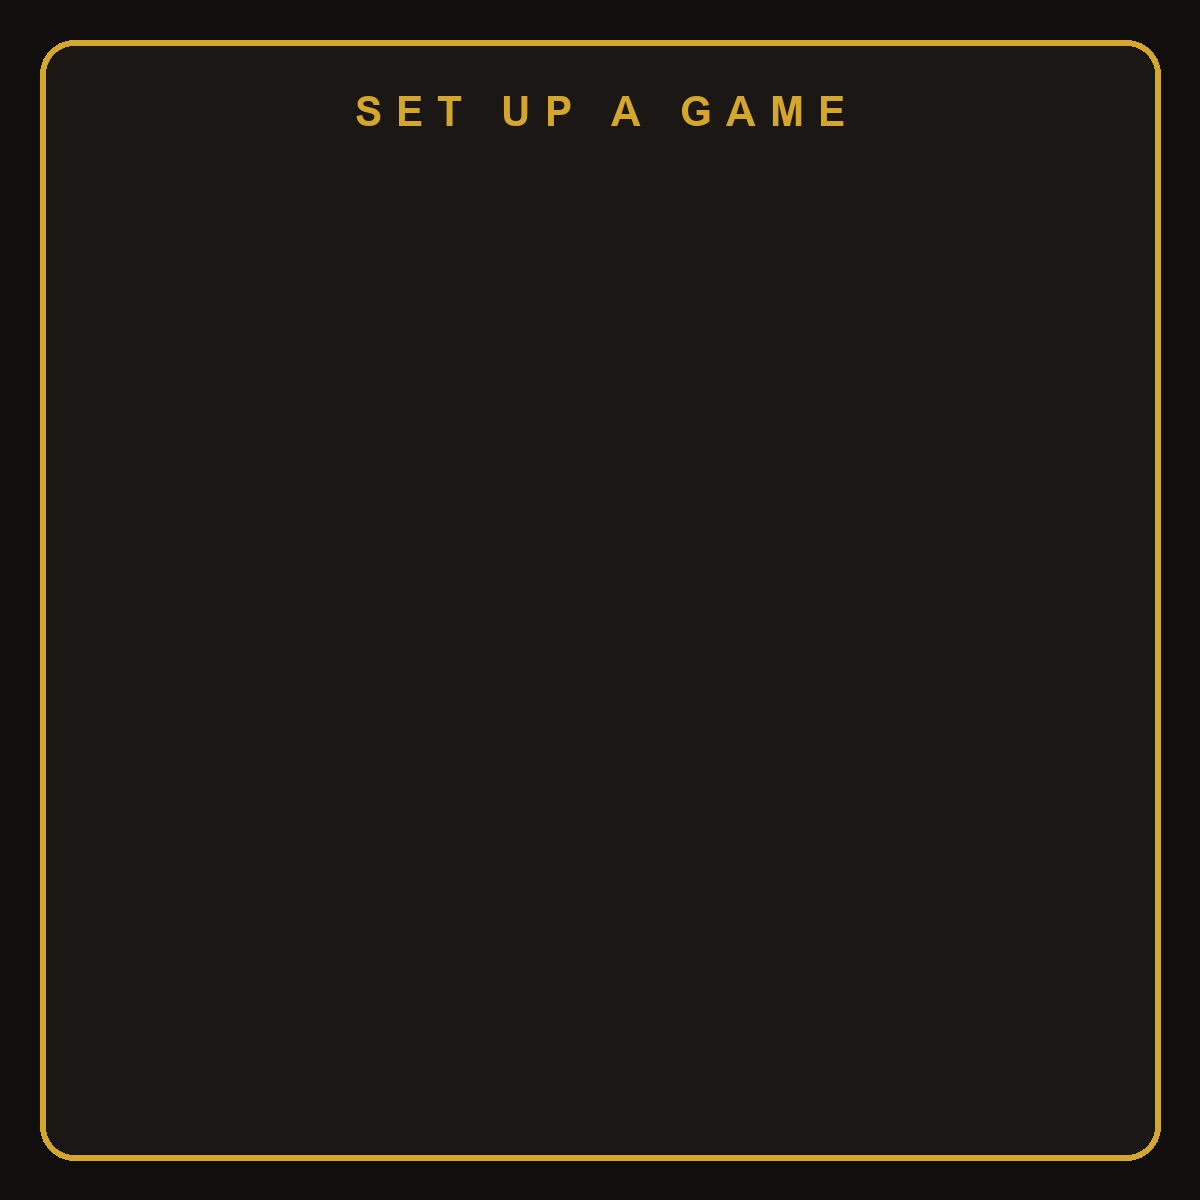
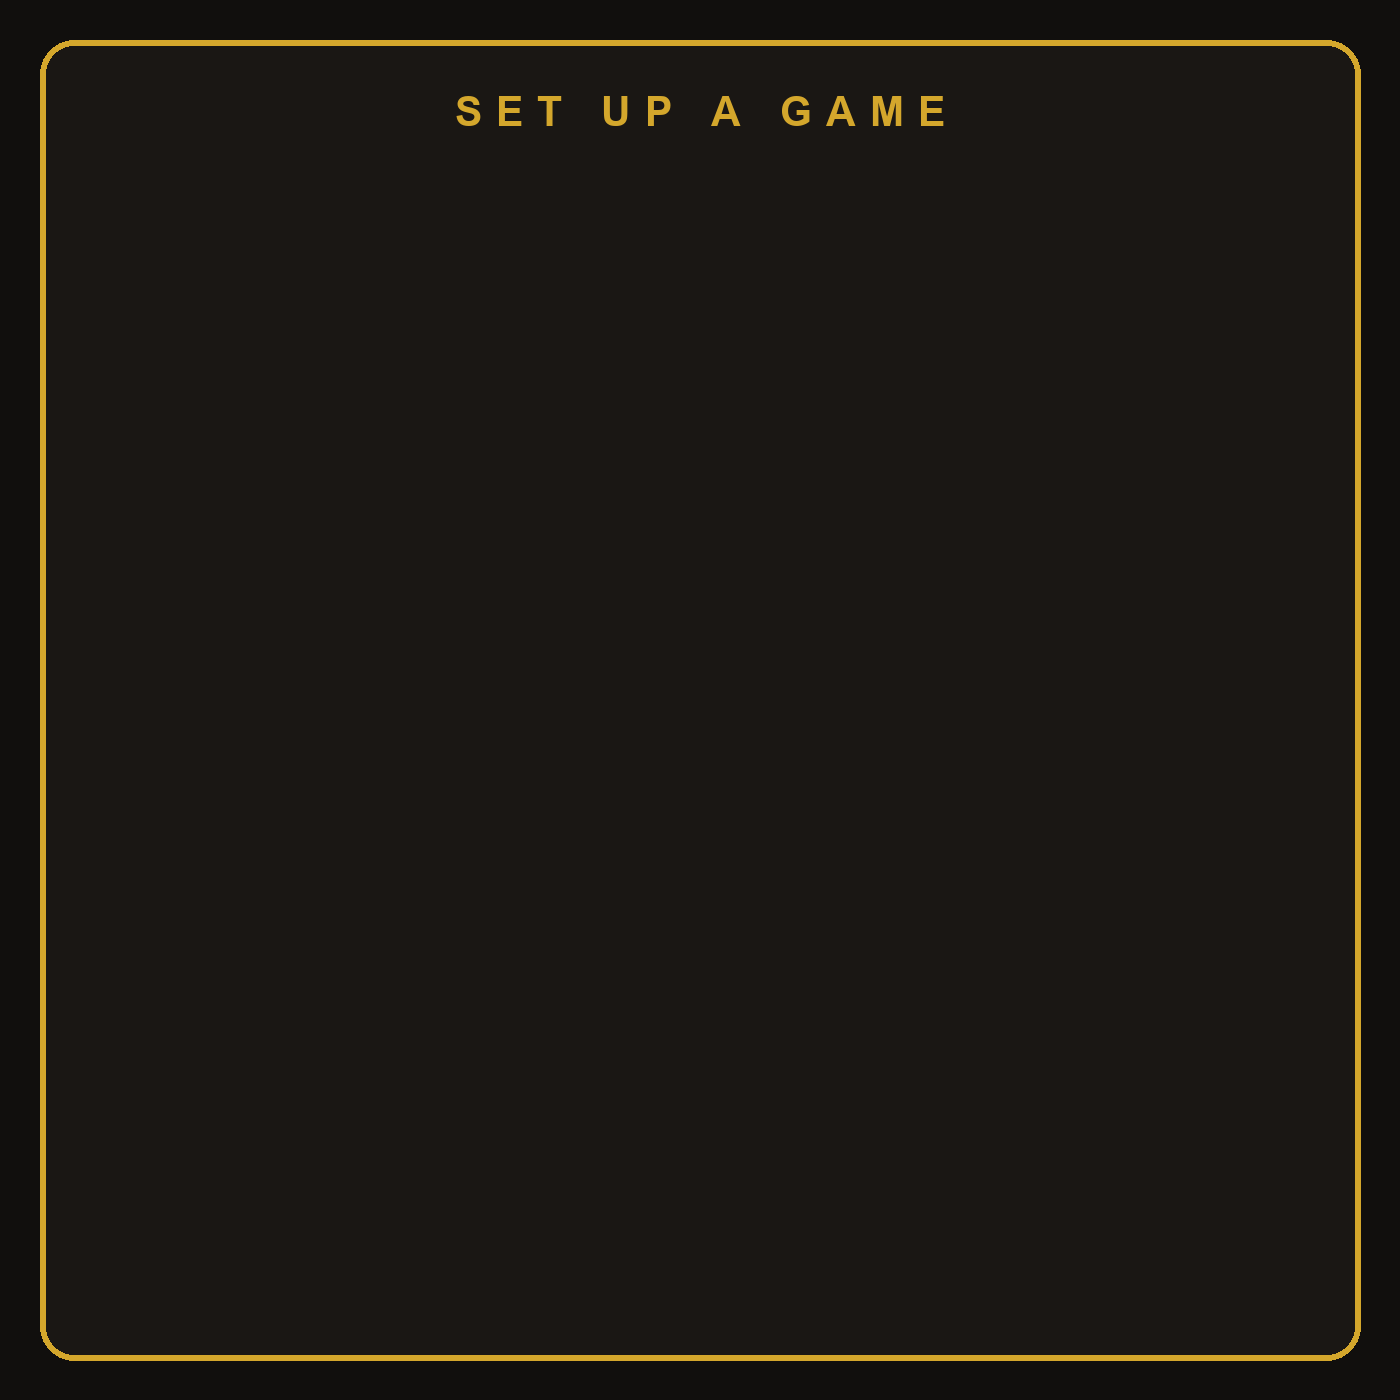
Unmirror the panel buttons, space the rows, and sharpen the labels
Buttons are not mirrored by the tile's 180 degree Y rotation -- the image and
its buttons turn together -- so the negation applied to every position was
creating the mirroring rather than correcting it. Difficulty and its effect
were swapped, and the NRJ tiers read III, II, I. Positions now pass through
unchanged, and a test prints each row left to right to keep it that way.

Rows were 0.14 apart and still overlapped, so button height is nearer three
times the assumed local size than one. Rows now sit 0.23 apart on art with
more room, checked against height up to four times the assumption.

Blurry labels came from the same place: TTS shrinks a label to fit its button,
then the tile scale magnifies the result. The tiles drop from scale 8 to 5 and
the buttons and fonts grow, so less shrinking is magnified less.

The dial moves to just above the block of coloured dice, derived from where
those dice actually sit rather than hardcoded.

Changed region(s): [[0.0308, 0.0308, 0.9867, 0.9867]]

diff --git a/tts/build_mod.py b/tts/build_mod.py
@@ -29,8 +29,8 @@ BANK_POS = (-13.0, 1.5, 20.0)        # beside the nameplate, clear of the cards
 
 # The nameplate sits at the top all game. The setup surface sits in the middle
 # and is hidden once play starts, so the cards can be dealt into that space.
-NAMEPLATE_POS, NAMEPLATE_SCALE = (0.0, 1.02, 20.0), 8.0
-SETUP_POS, SETUP_SCALE = (0.0, 1.02, 0.0), 8.0
+NAMEPLATE_POS, NAMEPLATE_SCALE = (0.0, 1.02, 20.0), 5.0
+SETUP_POS, SETUP_SCALE = (0.0, 1.02, 0.0), 5.0
 
 
 def guid():
@@ -145,6 +145,16 @@ def dice_objects():
     for name, nick, x, y, z, rot, scale in layout.LOOSE:
         if name != 'Custom_Tile':
             queue.setdefault(nick, []).append((x, y, z, rot, scale))
+
+    # The dial sits just above the block of coloured dice, not off beside the
+    # cards, so it is derived from where those dice actually ended up.
+    colour = [q for n, q in queue.items()
+              if n in ('Red', 'Purple', 'Blue', 'Green', 'Yellow')]
+    spots = [p for q in colour for p in q]
+    if spots:
+        cx = (min(p[0] for p in spots) + max(p[0] for p in spots)) / 2.0
+        cz = max(p[2] for p in spots) + 1.6
+        queue['Chip'] = [(round(cx, 2), 1.1, round(cz, 2), (0, 180, 0), 0.85)]
 
     out, spare_z = [], -20.0
     for o in src:

diff --git a/generator/build_covers.py b/generator/build_covers.py
@@ -85,7 +85,7 @@ def cover(label, filename):
 # The nameplate art is 2.83:1, so a tile using it has very little vertical
 # room; buttons placed more than ~0.18 local from its centre fall off the
 # plate. The setup wizard gets its own near-square surface instead.
-PANEL_W, PANEL_H = 1200, 1200
+PANEL_W, PANEL_H = 1400, 1400
 PANEL_BG = (17, 15, 13)
 PANEL_INNER = (26, 23, 20)
 PANEL_GOLD = (212, 167, 44)
@@ -122,7 +122,7 @@ def nameplate(filename="Nameplate.png"):
     """
     plate = Image.open(os.path.normpath(os.path.join(OUT, "ControlPanel.png")))
     W = plate.width
-    H = int(W / 1.55)                       # local z becomes about +/-0.32
+    H = int(W / 1.23)                       # local z becomes about +/-0.41
     im = Image.new("RGB", (W, H), PANEL_BG)
     im.paste(plate.convert("RGB"), (0, 0))
     d = ImageDraw.Draw(im)
